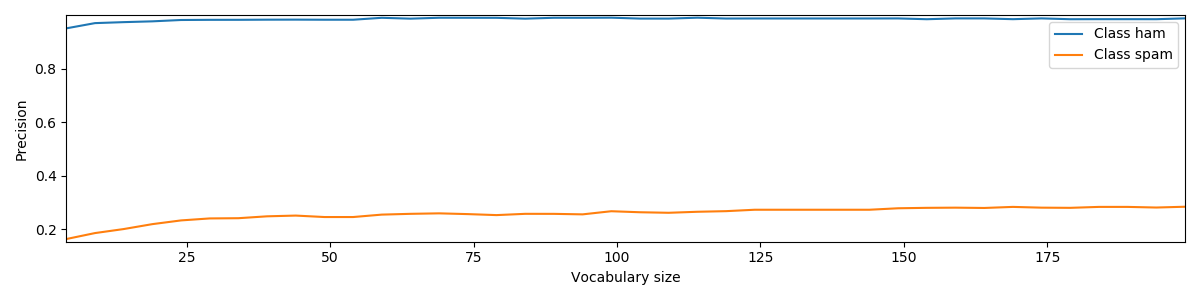
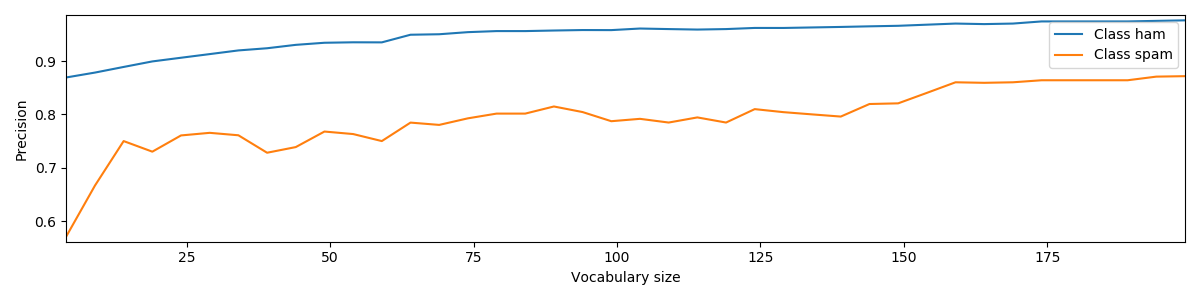
task8: increase accuracy

diff --git a/task8_bayes/bayes.py b/task8_bayes/bayes.py
@@ -4,9 +4,9 @@ import numpy as np
 class NaiveBayes:
     def __init__(self, alpha=0.01):
         self.alpha = alpha  # Параметр аддитивной регуляризации
-        self.word_probs = None
+        self.word_log_probs = None
         self.labels = None
-        self.label_probs = None
+        self.label_log_probs = None
 
     def fit(self, X, y):
         labels = np.unique(y)
@@ -15,18 +15,15 @@ class NaiveBayes:
         for l in labels:
             is_l_class = (y == l)
             objects_of_l_class = X[is_l_class]
-            n = objects_of_l_class.sum()
-            word_probs.append((sum(objects_of_l_class) + self.alpha) / (n + self.alpha * n))
+            feature_counts = sum(objects_of_l_class) + self.alpha
+            word_probs.append(feature_counts / feature_counts.sum())
             label_probs.append(np.mean(is_l_class))
         self.labels = labels
-        self.word_probs = np.array(word_probs)
-        self.label_probs = np.array(label_probs)
+        self.word_log_probs = np.log(word_probs).T
+        self.label_log_probs = np.log(label_probs)
 
     def predict(self, X):
         return [self.labels[i] for i in np.argmax(self.log_proba(X), axis=1)]
 
     def log_proba(self, X):
-        return np.log(self.predict_proba(X))
-
-    def predict_proba(self, X):
-        return (X + self.alpha) @ self.word_probs.T
+        return X @ self.word_log_probs + self.label_log_probs

diff --git a/task8_bayes/main.py b/task8_bayes/main.py
@@ -7,6 +7,7 @@ import seaborn as sns
 import numpy as np
 import pandas as pd
 import spacy
+from sklearn.metrics import accuracy_score
 from sklearn.model_selection import train_test_split
 
 from task8_bayes.bag_of_words import BoW, BowStem
@@ -104,7 +105,7 @@ def most_importance(bag_of_words, X, y, plot_file_name):
 
 
 def main(bag_of_words, plots_prefix, X_train, X_test, y_train, y_test):
-    bow = bag_of_words(X_train, voc_limit=500)
+    bow = bag_of_words(X_train, voc_limit=1000)
     X_train_bow = bow.transform(X_train)
     X_test_bow = bow.transform(X_test)
     predictor = NaiveBayes(0.001)
@@ -115,8 +116,8 @@ def main(bag_of_words, plots_prefix, X_train, X_test, y_train, y_test):
 
 if __name__ == '__main__':
     X, y = read_dataset("data/spam")
-    most_importance(BoW, X, y, "plot/most_important_words.png")
-    most_importance(BowStem, X, y, "plot/most_important_stems.png")
-    X_train, X_test, y_train, y_test = train_test_split(X, y, train_size=0.9)
+    #most_importance(BoW, X, y, "plot/most_important_words.png")
+    #most_importance(BowStem, X, y, "plot/most_important_stems.png")
+    X_train, X_test, y_train, y_test = train_test_split(X, y, train_size=0.8)
     main(BoW, "plot/non_stemmed", X_train, X_test, y_train, y_test)
     main(BowStem, "plot/stemmed", X_train, X_test, y_train, y_test)
